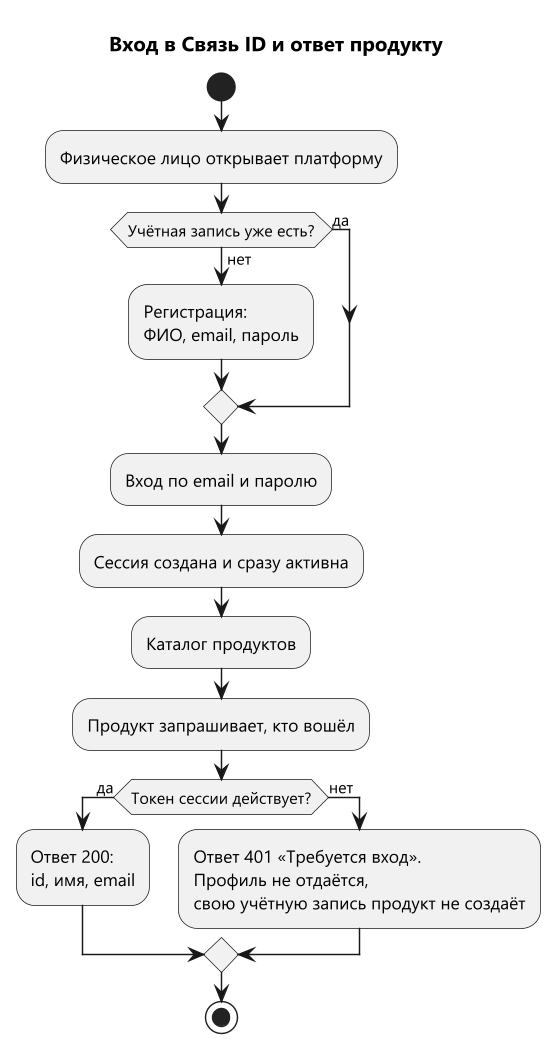
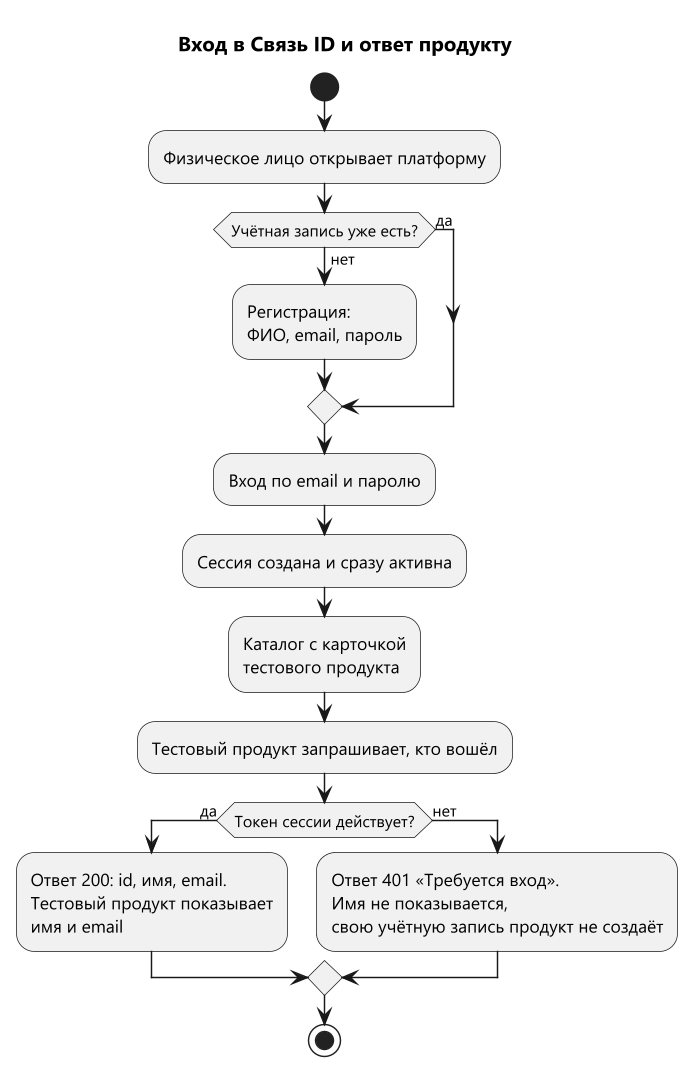
docs: тестовый продукт и более понятные диаграммы
В каталоге должна появиться карточка отдельного приложения, которое показывает имя вошедшего.

Changed region(s): [[0.0, 0.0306, 0.9819, 1.0]]

diff --git a/docs/01-requirements.md b/docs/01-requirements.md
@@ -4,7 +4,7 @@
 |---|---|
 | Проект | Integrator Platform — Связь ID |
 | Документ | Требования, сценарии и модели |
-| Версия | 1.0 |
+| Версия | 1.1 |
 | Дата | 2026-11-10 |
 
 Номера FR, NFR и US не меняются до конца семестра. На них ссылаются диаграммы, а в следующих работах — код и тесты.
@@ -13,7 +13,7 @@
 
 Связь ID — одна учётная запись физического лица на платформе. Человек регистрируется и входит один раз. Каталог показывает продукты, которые пользуются этой учётной записью. Продукт не заводит свой пароль: он спрашивает платформу, кто вошёл, и получает идентификатор, имя и почту.
 
-На момент версии 1.0 уже работают регистрация, вход, выход, каталог из пустых слотов, профиль и тема. Запрос продукта «кто вошёл» в коде ещё нет: он обязателен в этом семестре и описан как FR-8.
+На момент версии 1.1 уже работают регистрация, вход, выход, каталог из пустых слотов, профиль и тема. В этом семестре каталог нужно доработать: в нём появляется подключённый тестовый продукт. Сам тестовый продукт — отдельное приложение, не этот репозиторий. Он подключает вход Связь ID и показывает имя и почту вошедшего. Запрос «кто вошёл» описан в FR-8, проверка на тестовом продукте — в FR-9. В коде этого ещё нет.
 
 Роли:
 
@@ -21,6 +21,7 @@
 |------|---------|
 | Физическое лицо | Человек, который регистрируется, входит, смотрит каталог и ведёт свой профиль |
 | Продукт | Внешняя система в каталоге. Своих пользователей не хранит, узнаёт личность у платформы |
+| Тестовый продукт | Простое отдельное приложение для проверки. Названия пока нет. Подключает тот же вход и показывает имя и email |
 
 Термины:
 
@@ -29,6 +30,7 @@
 | Пользователь | Физическое лицо, заведённое на платформе |
 | Сессия | Факт входа. Сейчас это JWT в cookie браузера на 7 дней. К концу семестра срок и состояние сессии хранятся в базе |
 | Продукт | Система, которая стоит в каталоге и запрашивает личность пользователя |
+| Тестовый продукт | Отдельное приложение, на котором в этом семестре проверяется подключение входа |
 | Настройки | Выбор темы этого пользователя: светлая, тёмная или как в системе |
 
 Чужой поставщик входа в этот семестр не входит. Платформа сама выпускает сессию.
@@ -69,13 +71,13 @@
 
 ### FR-4
 
-Физическое лицо может открыть каталог продуктов.
+Физическое лицо может открыть каталог и увидеть в нём подключённый тестовый продукт.
 
 | | |
 |---|---|
 | Приоритет | обязательно в этом семестре |
-| Состояние | уже есть |
-| Признак выполнения | После входа видна страница каталога со слотами продуктов. Сейчас слоты пустые |
+| Состояние | нужно доработать |
+| Признак выполнения | После входа открывается каталог. Пустые слоты уже есть. Работа закончена, когда среди них видна карточка тестового продукта и из неё можно перейти в это отдельное приложение |
 
 ### FR-5
 
@@ -118,6 +120,18 @@
 | Признак выполнения | `GET /api/identity` с действующим токеном сессии отвечает 200 и телом `{ id, fullName, email }`. Пароля и хеша в ответе нет. Без действующего токена ответ 401, профиля в теле нет, продукт свою учётную запись не создаёт |
 
 Токен — тот же JWT, который платформа выдаёт при входе. Продукт получает его, когда пользователь открывает продукт из каталога, и передаёт в заголовке `Authorization: Bearer`.
+
+### FR-9
+
+Тестовый продукт может подключить вход Связь ID и показать физическому лицу его имя и email.
+
+| | |
+|---|---|
+| Приоритет | обязательно в этом семестре |
+| Состояние | нужно сделать |
+| Признак выполнения | Человек входит в Связь ID и открывает тестовый продукт из каталога. Отдельное приложение вызывает FR-8 и показывает то же имя и email, что в профиле. Своей регистрации у продукта нет. Без сессии имя и email не показываются |
+
+Тестовый продукт не хранится в этом репозитории. Название приложения в требовании не фиксируется.
 
 ### Ограничения
 
@@ -217,11 +231,11 @@
 
 Требование: FR-4.
 
-Я как физическое лицо имею активную сессию. Открываю каталог. Вижу слоты продуктов.
+Я как физическое лицо имею активную сессию. Открываю каталог. Вижу карточку тестового продукта и перехожу в него.
 
-Вход: активная сессия.
+Вход: активная сессия и подключённый тестовый продукт.
 
-Выход: страница каталога. Новая учётная запись при этом не создаётся.
+Выход: в каталоге есть карточка тестового продукта, переход открывает отдельное приложение. Новая учётная запись при этом не создаётся. Пустые слоты, которые уже рисуются, остаются на странице.
 
 ### US-5. Личные данные
 
@@ -267,6 +281,20 @@
 
 Неверные данные. Заголовок `Authorization` не передан. Ответ `401`, тело `{ "error": "Требуется вход" }`. Полей `id`, `fullName` и `email` нет. Продукт не создаёт пользователя и не открывает его данные.
 
+### US-9. Тестовый продукт показывает имя
+
+Требование: FR-9. В коде ещё нет, ниже описан ожидаемый результат.
+
+Я как тестовый продукт не храню пароль физического лица. Человек открывает меня из каталога Связь ID и приносит токен сессии. Я вызываю `GET /api/identity` и показываю имя и email.
+
+Вход: токен сессии и отдельное приложение тестового продукта.
+
+Выход: на экране продукта видны имя и email из платформы. Своя учётная запись не создаётся.
+
+Пример. После входа `maria.ivanova@example.com` тестовый продукт показывает «Иванова Мария Сергеевна» и `maria.ivanova@example.com`.
+
+Неверные данные. Человек открывает тестовый продукт без входа в Связь ID. Имя и email на экране не появляются, продукт сообщает, что нужен вход, и никого не регистрирует.
+
 ### Требование → сценарии
 
 | Требование | Сценарии |
@@ -279,6 +307,7 @@
 | FR-6 | US-6 |
 | FR-7 | US-7 |
 | FR-8 | US-8 |
+| FR-9 | US-9 |
 
 ## 4. Модели системы
 
@@ -286,11 +315,11 @@
 
 | Диаграмма | Назначение | Файлы | Что иллюстрирует |
 |-----------|------------|-------|------------------|
-| Контекст | Граница платформы, роли и PostgreSQL | [context.puml](diagrams/context.puml), [context.png](diagrams/context.png) | Физическое лицо, продукт, NFR-4, FR-8 |
-| Деятельность | Основной процесс: регистрация или вход, каталог, ответ продукту | [activity-entry.puml](diagrams/activity-entry.puml), [activity-entry.png](diagrams/activity-entry.png) | US-1, US-2, US-4, US-8 |
-| Варианты использования | Функции ролей, номер на каждом варианте | [usecase.puml](diagrams/usecase.puml), [usecase.png](diagrams/usecase.png) | FR-1 … FR-8 |
+| Контекст | Граница платформы, тестовый продукт и PostgreSQL | [context.puml](diagrams/context.puml), [context.png](diagrams/context.png) | Физическое лицо, FR-8, FR-9, NFR-4 |
+| Деятельность | Основной процесс: регистрация или вход, каталог, ответ продукту и показ имени | [activity-entry.puml](diagrams/activity-entry.puml), [activity-entry.png](diagrams/activity-entry.png) | US-1, US-2, US-4, US-8, US-9 |
+| Варианты использования | Функции ролей, номер на каждом варианте | [usecase.puml](diagrams/usecase.puml), [usecase.png](diagrams/usecase.png) | FR-1 … FR-9 |
 | Последовательность входа | Успешный вход и выдача сессии | [sequence-login.puml](diagrams/sequence-login.puml), [sequence-login.png](diagrams/sequence-login.png) | US-2 |
-| Последовательность отказа | Продукт спрашивает личность без токена | [sequence-identity-error.puml](diagrams/sequence-identity-error.puml), [sequence-identity-error.png](diagrams/sequence-identity-error.png) | US-8, ветка ошибки |
+| Последовательность отказа | Тестовый продукт спрашивает личность без токена | [sequence-identity-error.puml](diagrams/sequence-identity-error.puml), [sequence-identity-error.png](diagrams/sequence-identity-error.png) | US-8, US-9, ветка ошибки |
 | Модель данных | Пользователь, сессия, продукт, настройки | [data-model.puml](diagrams/data-model.puml), [data-model.png](diagrams/data-model.png) | Термины раздела 1, NFR-4 |
 | Состояния сессии | Активна, завершена выходом, истекла через 7 дней | [state-session.puml](diagrams/state-session.puml), [state-session.png](diagrams/state-session.png) | FR-2, FR-3, US-2, US-3 |
 

diff --git a/README.md b/README.md
@@ -1,9 +1,9 @@
 # Integrator Platform — Связь ID
 
 Платформа единого входа **Связь ID** для физического лица и каталог продуктов.  
-Продукт не заводит свой пароль: он спрашивает платформу, кто вошёл, и получает имя и почту. Этот запрос обязателен в семестре и ещё не реализован. Сейчас работают регистрация, вход, профиль и тема.
+Продукт не заводит свой пароль: он спрашивает платформу, кто вошёл, и получает имя и почту. Проверка пойдёт на отдельном тестовом продукте: он показывает имя и почту вошедшего. Этот запрос и тестовый продукт обязательны в семестре и ещё не реализованы. Сейчас работают регистрация, вход, профиль и тема. Каталог пока из пустых слотов.
 
-Спецификация версии 1.0: [docs/01-requirements.md](docs/01-requirements.md).
+Спецификация версии 1.1: [docs/01-requirements.md](docs/01-requirements.md).
 
 ## Статус требований
 
@@ -12,11 +12,12 @@
 | FR-1 | Регистрация физического лица | обязательно в этом семестре | уже есть |
 | FR-2 | Вход по email и паролю | обязательно в этом семестре | уже есть |
 | FR-3 | Выход | обязательно в этом семестре | уже есть |
-| FR-4 | Каталог продуктов | обязательно в этом семестре | уже есть |
+| FR-4 | Каталог с подключённым тестовым продуктом | обязательно в этом семестре | нужно доработать |
 | FR-5 | Просмотр и изменение личных данных | обязательно в этом семестре | уже есть |
 | FR-6 | Смена пароля | обязательно в этом семестре | уже есть |
 | FR-7 | Тема интерфейса | обязательно в этом семестре | уже есть |
 | FR-8 | Продукт узнаёт, кто вошёл | обязательно в этом семестре | нужно сделать |
+| FR-9 | Тестовый продукт показывает имя и email | обязательно в этом семестре | нужно сделать |
 | NFR-1 | Браузер, широкий и узкий экран | обязательно в этом семестре | уже есть |
 | NFR-2 | Повторное открытие входа быстрее 2 секунд | обязательно в этом семестре | уже есть |
 | NFR-3 | Пароль только как хеш, cookie HttpOnly | обязательно в этом семестре | уже есть |

diff --git a/docs/00-project.md b/docs/00-project.md
@@ -104,10 +104,11 @@ MIT — см. файл `LICENSE`.
 | Регистрация | реализовано | `src/app/register`, `api/auth/register` | Создать пользователя с ФИО/email/паролем |
 | Вход | реализовано | `src/app/login`, `api/auth/login` | Войти теми же данными |
 | Выход | реализовано | `AppHeader`, `api/auth/logout` | Кнопка «Выйти» |
-| Каталог продуктов | заглушка UI | `src/app/catalog` | После входа видны 6 пунктирных слотов |
+| Каталог продуктов | заглушка, нужно доработать | `src/app/catalog`, FR-4 | После входа видны пустые слоты; карточки тестового продукта ещё нет |
 | Профиль | реализовано | `src/app/profile`, `api/profile` | Изменить ФИО/email |
 | Тема светлая/тёмная | реализовано | `src/app/settings`, `api/settings/theme` | Переключить тему |
 | Запрос продукта «кто вошёл» | описано, не реализовано | FR-8, `GET /api/identity` | Спецификация в `docs/01-requirements.md` |
+| Тестовый продукт | нужно сделать | отдельное приложение, FR-9 | Показывает имя и email после входа через Связь ID |
 | Управление сессиями в Postgres | планируется | `src/db/schema.sql` | После подключения БД |
 
 ## Состояние инженерных практик
@@ -117,7 +118,7 @@ MIT — см. файл `LICENSE`.
 | Тесты | нет | Каталог `tests/` подготовлен; автотесты — в следующих работах |
 | Линтер | да | `npm run lint` (ESLint + eslint-config-next) |
 | CI | нет | Планируется GitHub Actions |
-| Документация | да | README, паспорт и спецификация требований 1.0 |
+| Документация | да | README, паспорт и спецификация требований 1.1 |
 | CHANGELOG | да | `CHANGELOG.md` |
 | Lock-файл | да | `package-lock.json` |
 

diff --git a/CHANGELOG.md b/CHANGELOG.md
@@ -4,6 +4,13 @@
 
 Формат основан на [Keep a Changelog](https://keepachangelog.com/ru/1.1.0/).
 
+## [Документация 1.1] — 2026-11-10
+
+### Изменено
+
+- FR-4 переведён в состояние «нужно доработать»: в каталоге должна появиться карточка тестового продукта.
+- Добавлены FR-9 и US-9: отдельное приложение подключает вход Связь ID и показывает имя и email вошедшего.
+
 ## [Документация 1.0] — 2026-11-10
 
 ### Добавлено
